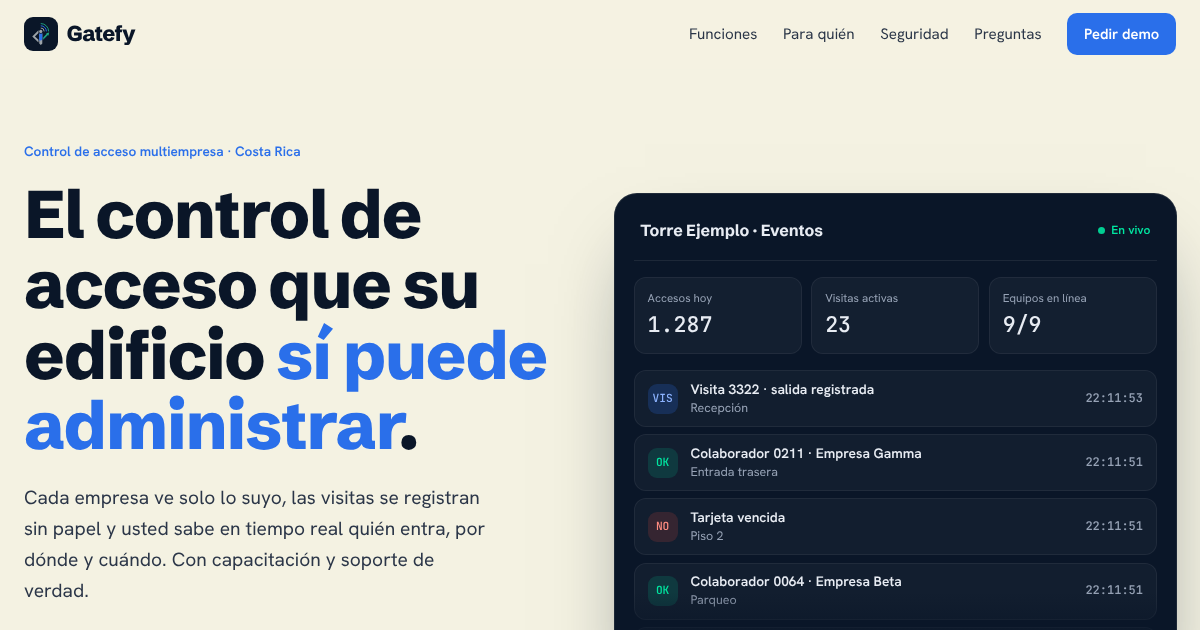
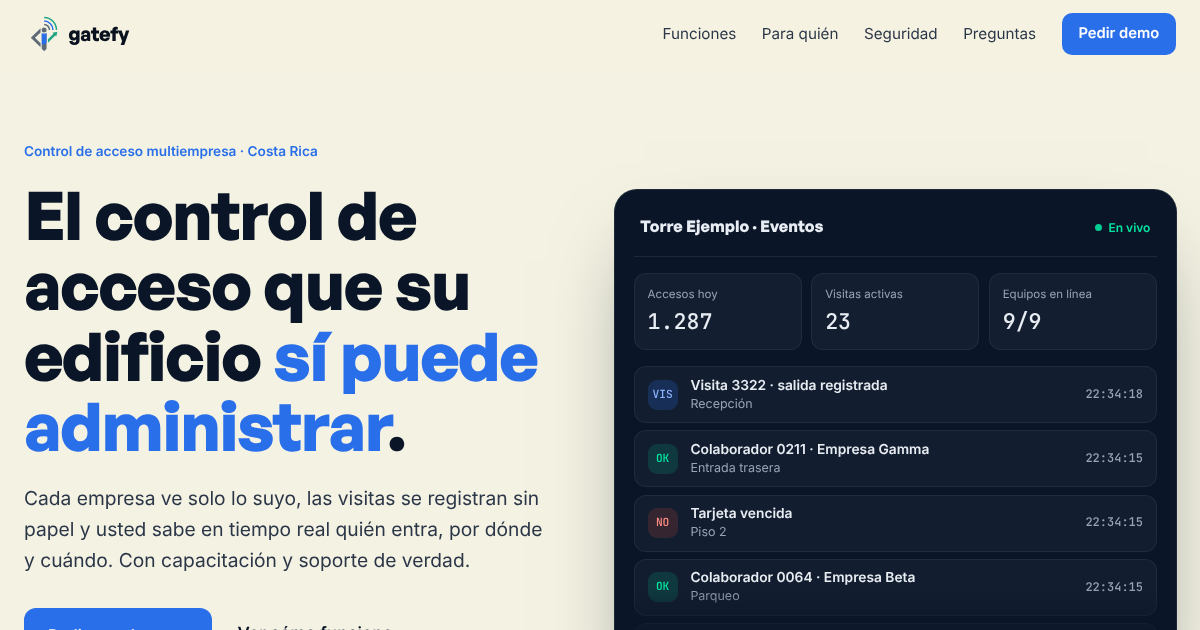
Aplica la marca oficial de Gatefy
Logo horizontal oficial, isotipo como ícono, tipografía General Sans en títulos e Inter en texto (según el libro de marca), y el lema Any hardware · One platform.

Claude-Session: https://claude.ai/code/session_01LUyRFLFm1UfRQn3VdqFRGA

diff --git a/index.html b/index.html
@@ -17,7 +17,8 @@
     <link rel="icon" href="favicon.png" type="image/png">
     <link rel="preconnect" href="https://fonts.googleapis.com">
     <link rel="preconnect" href="https://fonts.gstatic.com" crossorigin>
-    <link rel="stylesheet" href="https://fonts.googleapis.com/css2?family=Schibsted+Grotesk:wght@500;600;700;800&family=Hanken+Grotesk:wght@400;500;600&family=JetBrains+Mono:wght@500&display=swap">
+    <link rel="preload" href="assets/fonts/GeneralSans-Bold.woff2" as="font" type="font/woff2" crossorigin>
+    <link rel="stylesheet" href="https://fonts.googleapis.com/css2?family=Inter:wght@400;500;600&family=JetBrains+Mono:wght@500&display=swap">
     <script type="application/ld+json">
     {
       "@context": "https://schema.org",
@@ -33,11 +34,13 @@
     }
     </script>
     <style>
+        @font-face{ font-family:'General Sans'; src:url('assets/fonts/GeneralSans-Semibold.woff2') format('woff2'); font-weight:600; font-display:swap; }
+        @font-face{ font-family:'General Sans'; src:url('assets/fonts/GeneralSans-Bold.woff2') format('woff2'); font-weight:700 800; font-display:swap; }
         /* Gatefy · crema y tinta, azul de marca para acciones, verde solo para "permitido" */
         :root{
             --cream:#F4F2E2; --paper:#FBFAF3; --ink:#0A1628; --ink-2:#2B3648; --mut:#5D6676; --line:rgba(10,22,40,.12);
             --blue:#2A6FEA; --blue-d:#1F58C4; --green:#1FA582; --green-b:#00E5A0; --grey:#9CA3A8; --red:#D9483B;
-            --disp:'Schibsted Grotesk', system-ui, sans-serif; --body:'Hanken Grotesk', system-ui, sans-serif; --mono:'JetBrains Mono', ui-monospace, monospace;
+            --disp:'General Sans', 'Space Grotesk', system-ui, sans-serif; --body:'Inter', system-ui, sans-serif; --mono:'JetBrains Mono', ui-monospace, monospace;
             color-scheme:light;
         }
         *{ box-sizing:border-box; margin:0; padding:0; }
@@ -60,9 +63,9 @@
         /* encabezado */
         .top{ position:sticky; top:0; z-index:50; background:rgba(244,242,226,.86); backdrop-filter:blur(12px); -webkit-backdrop-filter:blur(12px); border-bottom:1px solid transparent; transition:border-color .3s; padding-top:env(safe-area-inset-top); }
         .top.is-scrolled{ border-color:var(--line); }
-        .top .wrap{ display:flex; align-items:center; justify-content:space-between; gap:1rem; height:68px; }
+        .top .wrap{ display:flex; align-items:center; justify-content:space-between; gap:1rem; height:72px; }
         .brand{ display:flex; align-items:center; gap:.55rem; text-decoration:none; font-family:var(--disp); font-weight:800; font-size:1.35rem; letter-spacing:-.03em; }
-        .brand img{ width:34px; height:34px; background:var(--ink); border-radius:9px; padding:3px; }
+        .brand img{ height:64px; width:auto; display:block; margin:-8px 0 -8px -10px; }
         .top nav{ display:flex; align-items:center; gap:1.6rem; font-size:.95rem; }
         .top nav a{ text-decoration:none; color:var(--ink-2); }
         .top nav a:hover{ color:var(--ink); }
@@ -243,7 +246,7 @@
 
     <div class="top" id="top">
         <div class="wrap">
-            <a class="brand" href="#inicio" aria-label="Gatefy, inicio"><img src="assets/gatefy-simbolo.svg" alt="" width="34" height="34">Gatefy</a>
+            <a class="brand" href="#inicio"><img src="assets/gatefy-logo.svg" alt="Gatefy" width="112" height="48"></a>
             <nav aria-label="Principal">
                 <a href="#funciones">Funciones</a>
                 <a href="#para-quien">Para quién</a>
@@ -266,7 +269,7 @@
                     <a class="btn" href="#demo">Pedir una demo →</a>
                     <a class="lnk" href="#funciones">Ver cómo funciona</a>
                 </div>
-                <p class="compat"><i></i>Compatible con terminales de reconocimiento facial y tarjeta Hikvision</p>
+                <p class="compat"><i></i><span><b>Any hardware · One platform.</b> Compatible con terminales de reconocimiento facial y tarjeta Hikvision.</span></p>
             </div>
 
             <div class="panel" aria-label="Ejemplo del panel de eventos de Gatefy con datos ficticios">
@@ -446,7 +449,7 @@
 
     <footer>
         <div class="wrap">
-            <span>© 2026 Gatefy · Presentado por <a href="https://techadvisorsla.com">Tech Advisors LA</a></span>
+            <img src="assets/gatefy-logo.svg" alt="Gatefy" width="93" height="40" style="height:40px;width:auto"><span>© 2026 Gatefy · Presentado por <a href="https://techadvisorsla.com">Tech Advisors LA</a></span>
             <span><a href="https://wa.me/50664656910">WhatsApp +506 6465-6910</a></span>
         </div>
     </footer>
